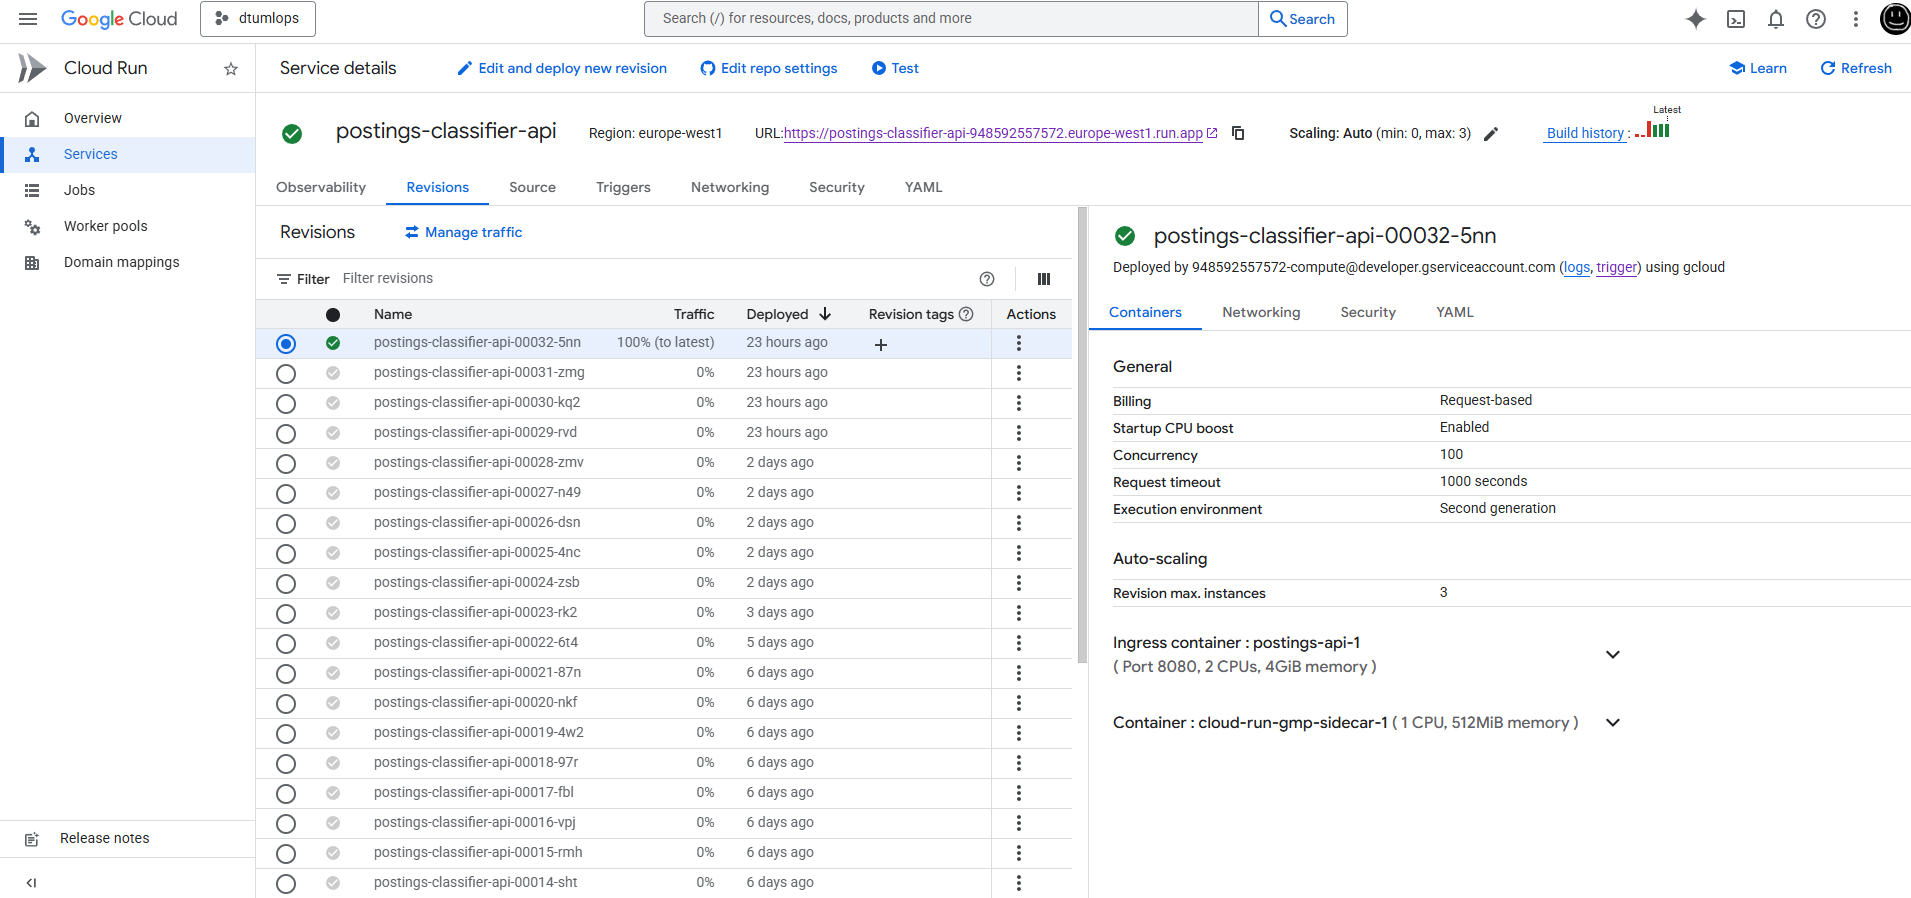
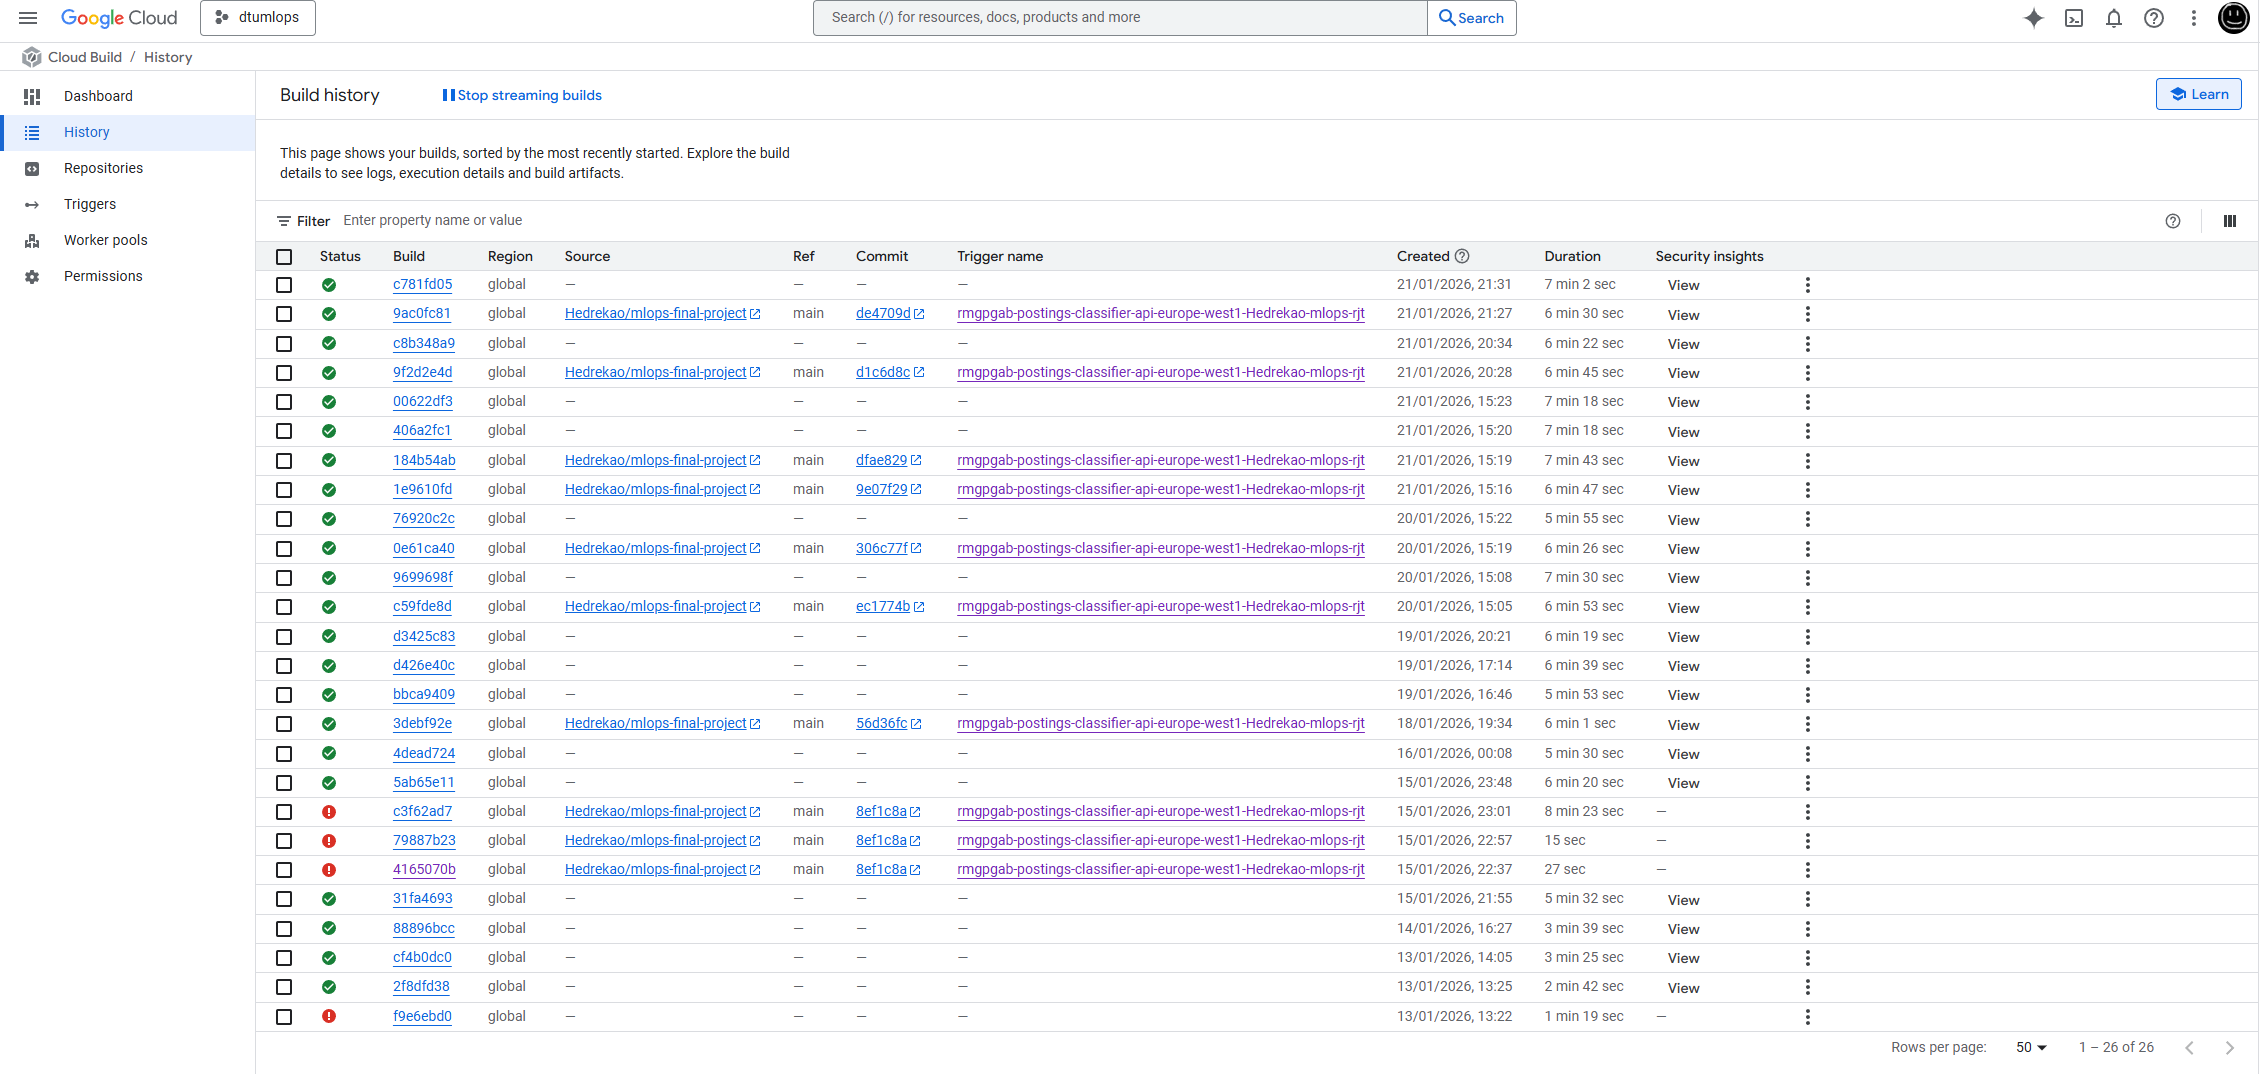
Update questions and cloudbuild image

diff --git a/reports/README.md b/reports/README.md
@@ -121,7 +121,9 @@ will check the repositories and the code to verify your answers.
 ### Question 1
 > **Enter the group number you signed up on <learn.inside.dtu.dk>**
 >
-> Answer: 103
+> Answer: 
+
+103
 
 
 ### Question 2
@@ -131,7 +133,9 @@ will check the repositories and the code to verify your answers.
 >
 > *sXXXXXX, sXXXXXX, sXXXXXX*
 >
-> Answer: s250695, s253811, s250778, s250779
+> Answer: 
+
+s250695, s253811, s250778, s250779
 
 ### Question 3
 > **Did you end up using any open-source frameworks/packages not covered in the course during your project? If so**
@@ -515,9 +519,9 @@ Returns `{"label":"fake","score":0.799...}`. Health, monitoring stats/report, an
 >
 > Answer:
 
-For unit testing we used pytest with FastAPI's TestClient. We wrote 20 focused tests in `tests/test_api.py` covering: root/health/predict endpoints (response structure, status codes), edge cases (empty text, whitespace, unicode, special characters, long text), valid label/score ranges, and integration scenarios. All 20 tests passed successfully.
+For unit testing we used pytest with FastAPI's TestClient. We wrote 20 tests in `tests/test_api.py` covering: root/health/predict endpoints (response structure, status codes), edge cases (empty text, whitespace, unicode, special characters, long text), valid label/score ranges, and integration scenarios. All 20 tests passed successfully.
 
-For load testing we used Locust against the deployed Cloud Run service. We simulated 10 concurrent users with weighted endpoints: `/predict` (weight 10), `/` (weight 2), `/health` (weight 1), `/monitoring/stats` (weight 1), `/monitoring/report` variants (weight 1). Over 2 minutes 53 seconds, we generated 664 total requests with 0 failures. Key results: `/predict` handled 447 requests at avg 86.94ms (50th percentile 77ms, 95th percentile 150ms), achieving 2.58 RPS. Root and health endpoints averaged 33ms and 30ms respectively. Throughput reached 3.83 RPS peak. The API never crashed and gracefully handled all concurrent traffic, though `/monitoring/stats` is slower (7271ms avg) due to GCS reads. Overall the deployment is stable and responsive for the core prediction workload.
+For load testing we used Locust against the deployed Cloud Run service. We simulated 10 concurrent users with weighted endpoints: `/predict` (weight 10), `/` (weight 2), `/health` (weight 1), `/monitoring/stats` (weight 1), `/monitoring/report` variants (weight 1). Over 3 minutes, we generated 664 total requests with 0 failures. Key results: `/predict` handled 447 requests at avg 86.94ms (50th percentile 77ms, 95th percentile 150ms), achieving 2.58 RPS. Root and health endpoints averaged 33ms and 30ms respectively. Throughput reached 3.83 RPS peak. The API never crashed and gracefully handled all concurrent traffic, though `/monitoring/stats` is slower (7271ms avg) due to GCS reads. Overall the deployment is stable and responsive for the core prediction workload.
 
 ### Question 26
 
@@ -571,7 +575,7 @@ is not fun at all, but this is the reality we live in and we have to deal with i
 >
 > Answer:
 
---- question 28 fill here ---
+We did not add any extra features beyond the required scope. Instead, we focused on making sure the core parts of the project were solid and worked well end to end. We chose to skip optional additions like a frontend or more advanced infrastructure, as our main priority was building a stable and reliable pipeline rather than adding extra components.
 
 ### Question 29
 
@@ -634,9 +638,12 @@ Our system architecture follows a complete MLOps pipeline from local development
 > Answer:
 
 // Please add all of you here your contributions
+
 **Student s253811**  responsible for implementing profiling (PyTorch Profiler integration), logging infrastructure (loguru setup across modules), and the complete monitoring system (Prometheus metrics instrumentation, `/monitoring/report` endpoint, Cloud Monitoring integration, prediction logging to GCS). Also some necessary fixes to GitHub Actions workflows and other code maintenance tasks throughout the project.
 
 **Student s250695**  was responsible for implementing and maintaining the continuous integration pipeline. This included setting up GitHub Actions workflows with multi-OS and multi-Python version testing, configuring pytest with coverage reporting, integrating ruff linting and formatting checks, and setting up pre-commit hooks to enforce code quality standards before commits. Additionally, implemented distributed data loading optimization following the DTU MLOps M29 module, including multi-worker PyTorch DataLoader configuration with GPU memory optimization , performance benchmarking across different worker counts, and dataloader best practices in the data.py module to improve training pipeline performance.
+
+**Student s250778** was responsible for creating the project description in the main README.md. Designed and implemented the FastAPI inference service, including model loading from cloud storage with fallback logic. Led the most cloud deployment pipeline: set up Cloud Run deployment, containerized the application with Docker, and tested the build process end-to-end. Modified the model and tokenizer loading to work efficiently in a cloud environment with GCS bucket integration and set up environment variables for cloud storage paths. Uploaded model checkpoints and HuggingFace model files to the GCS bucket. Implemented API testing with pytest and performed load testing using Locust.
 
 All members contributed to code reviews, testing, and documentation.
 We used GitHub Copilot for code completion and ChatGPT/GitHub Copilot Chat for debugging, explaining error messages, and generating code.
